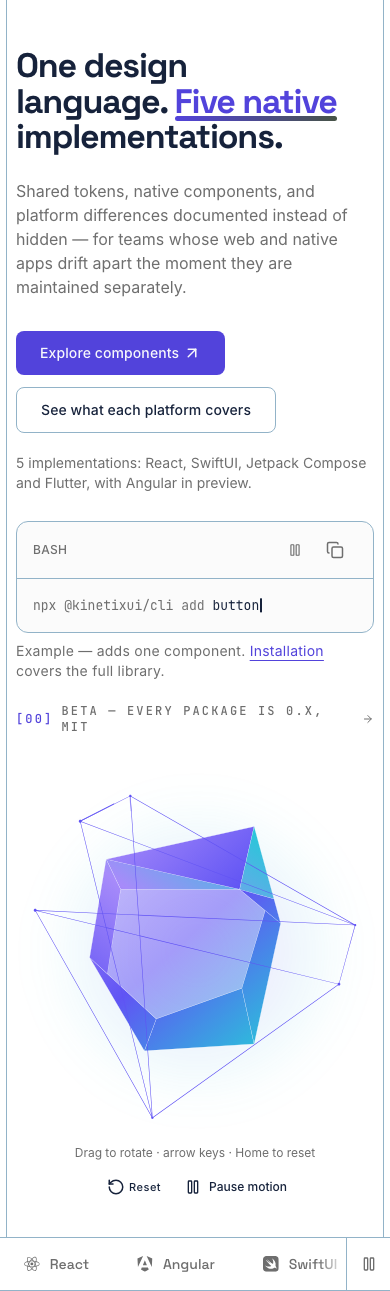
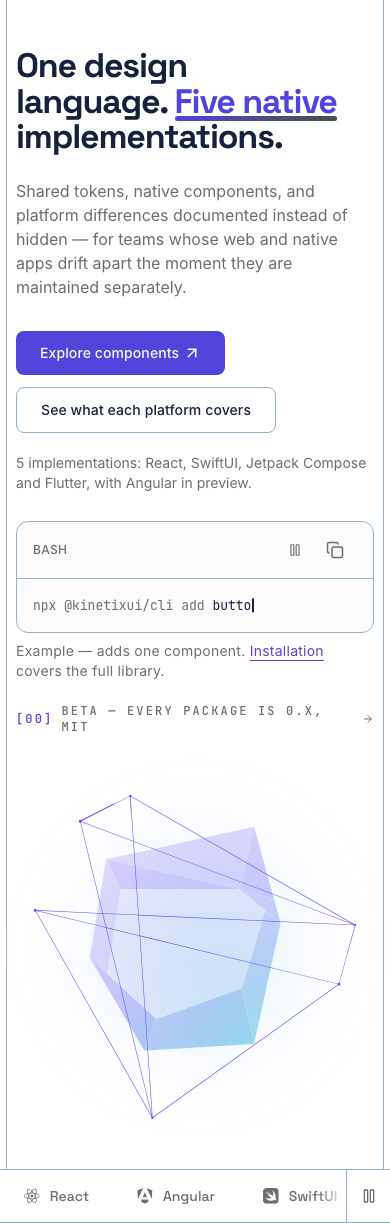
docs(web): refresh soft-gradient autoplay verification and screenshots

diff --git a/design-assets/identity/v1/verification/VERIFICATION.md b/design-assets/identity/v1/verification/VERIFICATION.md
@@ -1,9 +1,26 @@
 # Kinetic Weave verification — 2 November 2026
 
-Implementation revision: `a68f0fdfed7d57faf25e99d23565b4dc0f582545`.
+Implementation revision: `5bcd567b031991233b8c30965c54cfe51d22cfca`.
 Screenshots and browser results below are from its **actual production Next.js
 render**, not mockups. The later evidence commit changes only this directory.
 No merge, production promotion or package release was performed.
+
+## Autoplay / soft-gradient refinement
+
+The latest owner refinement removes the visible Reset/Pause controls and control
+caption. A unified translucent brand gradient softens the facets, and a broader
+cyan wash fades behind the artwork. The original facet and cage geometry stays
+intact. A 24-second floating rotation and 14-second traveling-light loop autoplay
+on each visit; an obsolete stored pause setting cannot suppress playback.
+
+The seven production browser cases verify actual transform changes, infinite
+iteration, absence of visible controls, drag / keyboard rotation, Home reset,
+Space / Escape motion control, offscreen suspension and live reduced-motion
+changes. Desktop, mobile and dark screenshots below were refreshed from the
+production build. The latest production build, changed-component lint,
+component-use guard and homepage pixel-contrast / aura-strength safeguards pass.
+Platform and token suite counts below are retained from the original rebrand
+validation; this refinement does not alter their source or token values.
 
 ## Hero evidence
 
@@ -22,7 +39,7 @@ No merge, production promotion or package release was performed.
 
 Seven browser cases pass with zero page errors and zero WCAG A/AA axe findings.
 The runner verifies source facet/cage counts, brand wireframe color, actual
-pointer drag, keyboard rotation, Home/Reset, Pause, offscreen suspension, live
+pointer drag, keyboard rotation, Home reset, Space/Escape pause, offscreen suspension, live
 reduced-motion preference changes, and horizontal reflow at 320px / 200% text.
 The original source coordinates are retained; the file's SHA-256 is recorded.
 
